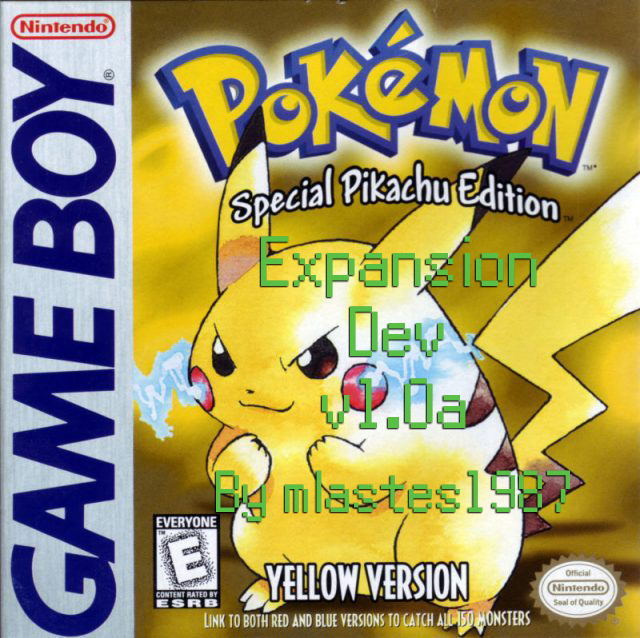
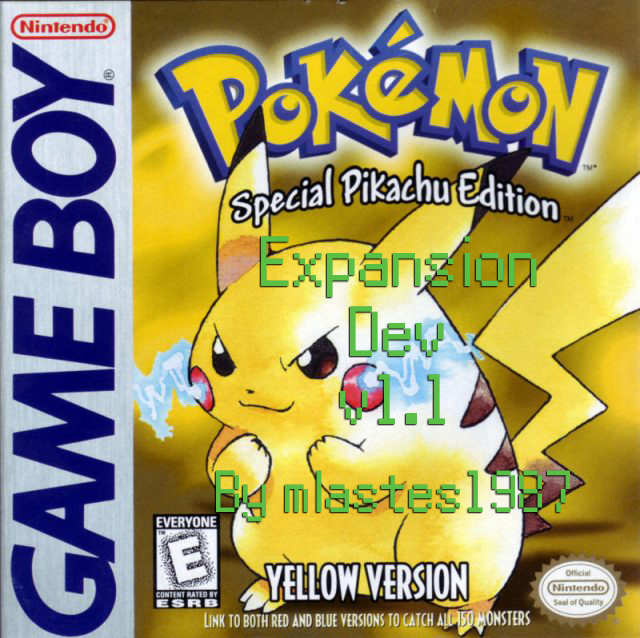
Backported Crobat from Gen 2, moved Pics 2 ROMX to $3B, changed Karate Chop to Fighting type.

Changed region(s): [[0.5, 0.5658, 0.75, 0.685]]

diff --git a/README.md b/README.md
@@ -1,29 +1,31 @@
 # Pokémon Yellow Expansion Dev
 
 ![Screenshot](pokeyellow-expansion-dev-box-art.jpg)
+
+Based on the pokeyellow disassembly by [**Pret**](https://github.com/pret/pokeyellow)
+
+# Features
+
+- **Portable PC** After receiving your Pokedex from Professor Oak, your menu will show a Portable PC option which will allow you, outside of the Elite Four, to access your PC anywhere that isn't your house or Pokemon Center.
+
 ![Screenshot](pokeyellow-expansion-dev-0.png)
 
-This is a Quality of Life expansion of Pokemon Yellow to enhance the
-vanilla experience.
+- **Bank Expansion** Bank's 1 and 1F have been expanded to make room for more stuff.
 
-Based on the Pokeyellow disassembly by [**Pret**](https://github.com/pret/pokeyellow)
+- **Pikachu learns Surf by HM** This also allows you to participate in the Pikachu Surf minigame.
 
-To set up the repository, see [**INSTALL.md**](INSTALL.md).
+- **Trade Evolutions** All trade evolutions evolve at level 37.
 
+- **Move Typeset Changes** Fly has been changed to Flying type and Karate Chop is changed to Fighting.
 
-## See also
+- **Crobat Gen 2 Backport** Crobat has been backported from Pokemon Crystal, sprites and all, evolved from Golbat at level 32, and is able to learn Fly by HM.
 
-- [**Wiki**][wiki] (includes [tutorials][tutorials])
-- [**Symbols**][symbols]
-- [**Tools**][tools]
+![Screenshot](pokeyellow-expansion-dev-1.png)
+![Screenshot](pokeyellow-expansion-dev-2.png)
+![Screenshot](pokeyellow-expansion-dev-3.png)
 
-You can find us on [Discord (pret, #pokered)](https://discord.gg/d5dubZ3).
+- **Known Issues** The back sprite for Crobat is a little rough due to it being shrunk to 32x32 pixels from the Crystal 56x56 so it could fit in the Battle UI.  I'll see what I can do about finding a replacement but it'll do for now.
 
-For other pret projects, see [pret.github.io](https://pret.github.io/).
+# Credit/Thanks
 
-[wiki]: https://github.com/pret/pokeyellow/wiki
-[tutorials]: https://github.com/pret/pokeyellow/wiki/Tutorials
-[symbols]: https://github.com/pret/pokeyellow/tree/symbols
-[tools]: https://github.com/pret/gb-asm-tools
-[ci]: https://github.com/pret/pokeyellow/actions
-[ci-badge]: https://github.com/pret/pokeyellow/actions/workflows/main.yml/badge.svg
+Thanks to the [**pret**](https://pret.github.io) community for their help and tutorials which made this project possible.
